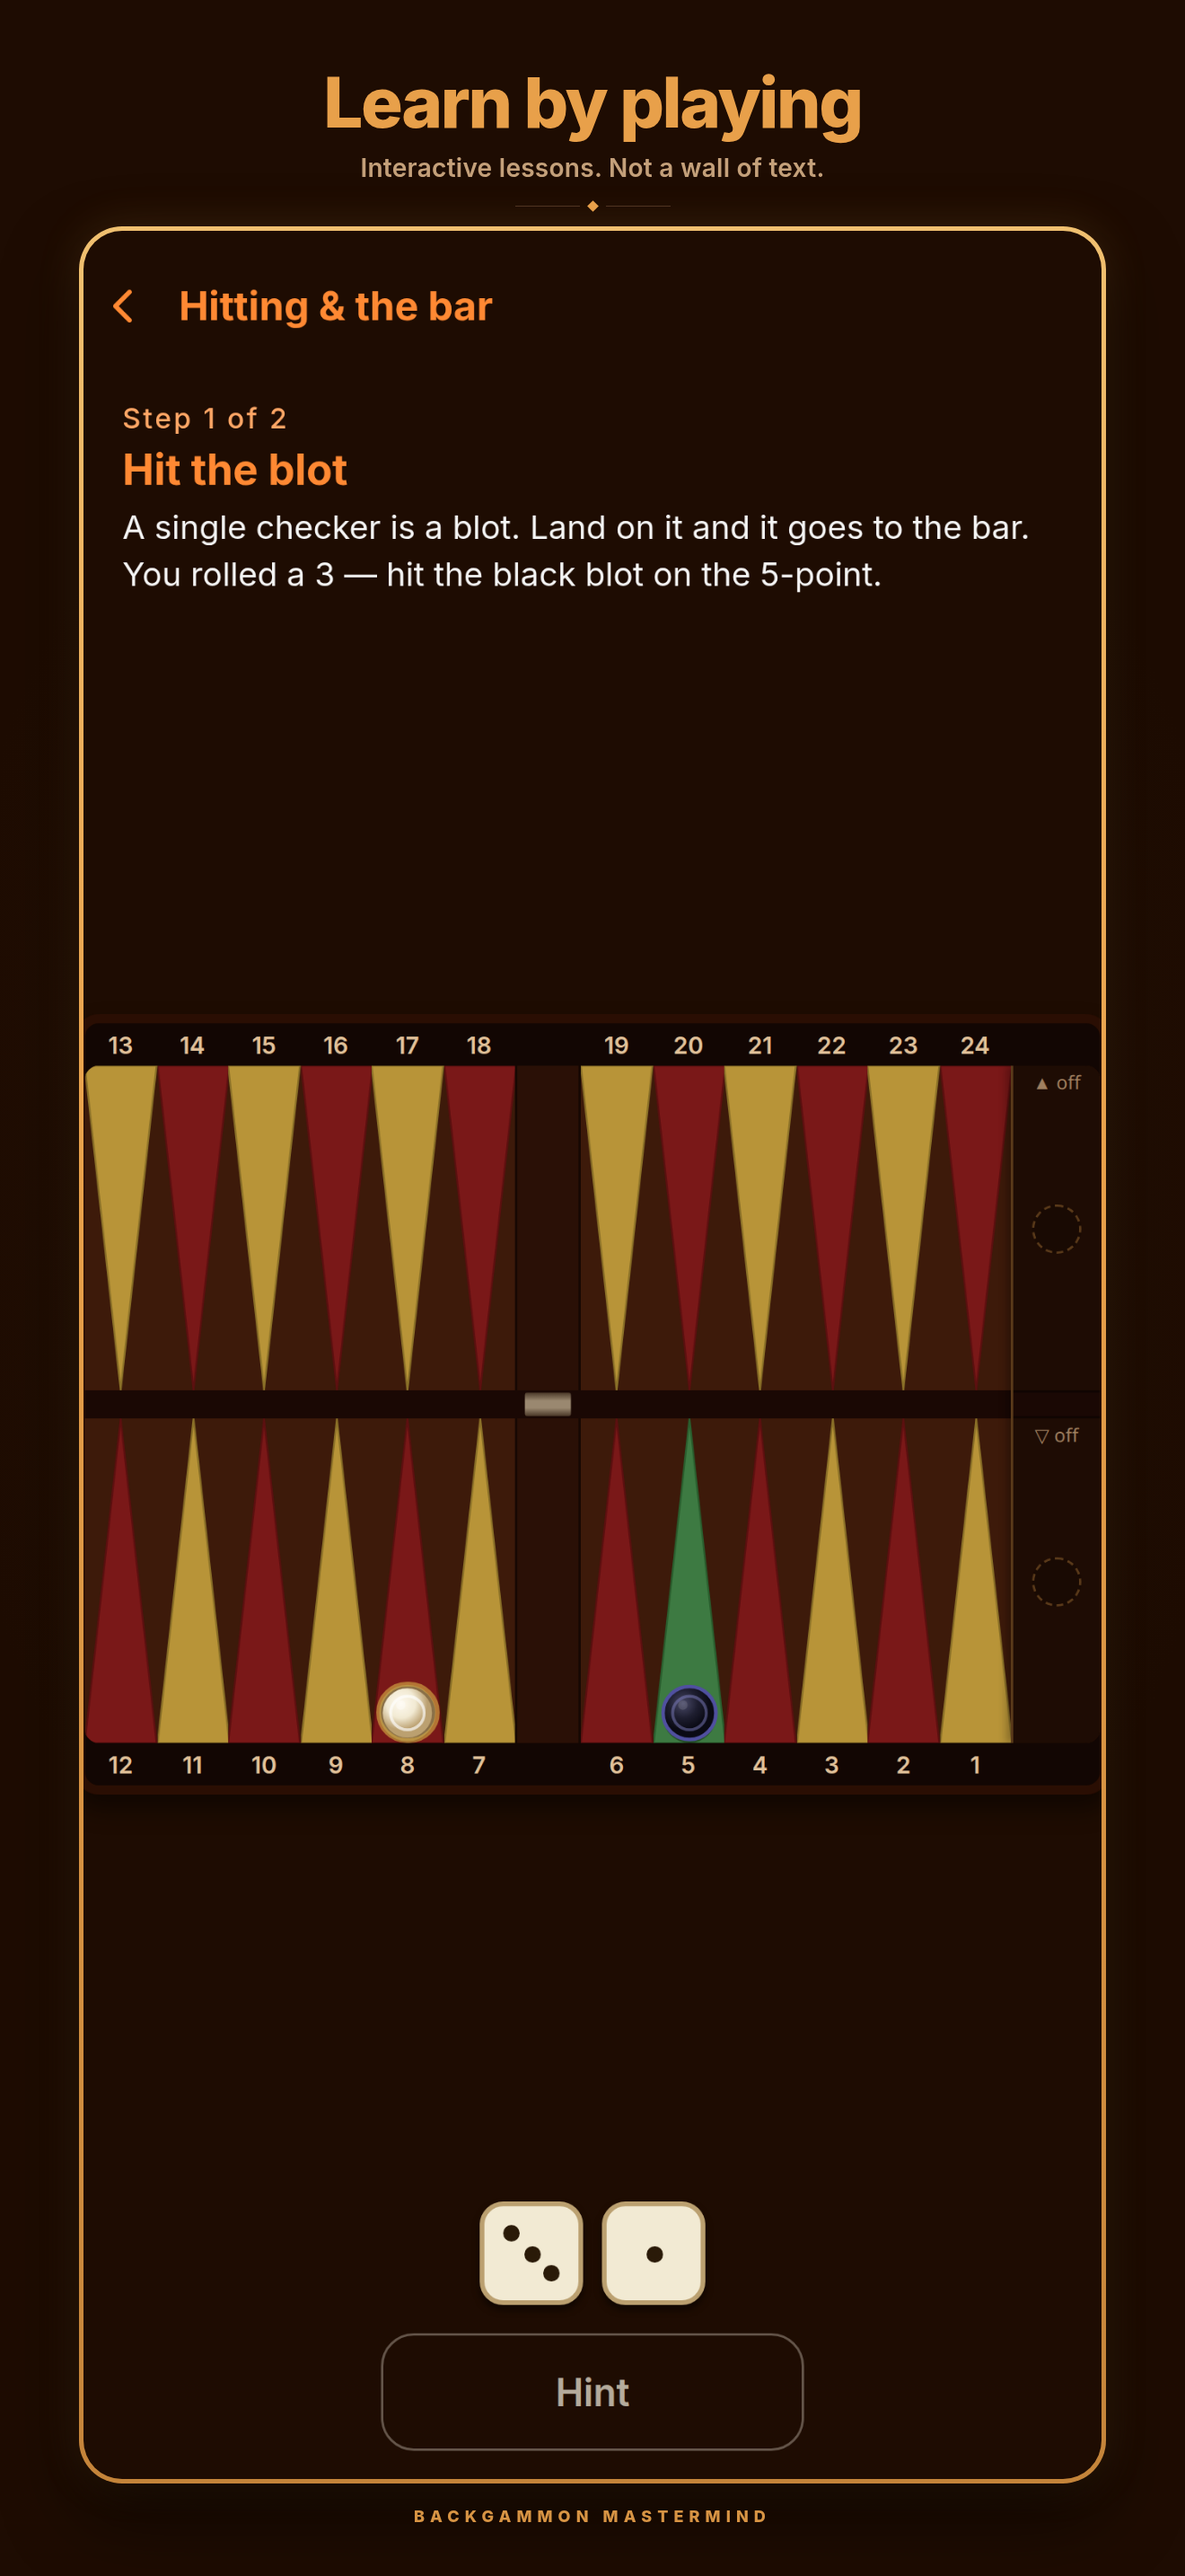
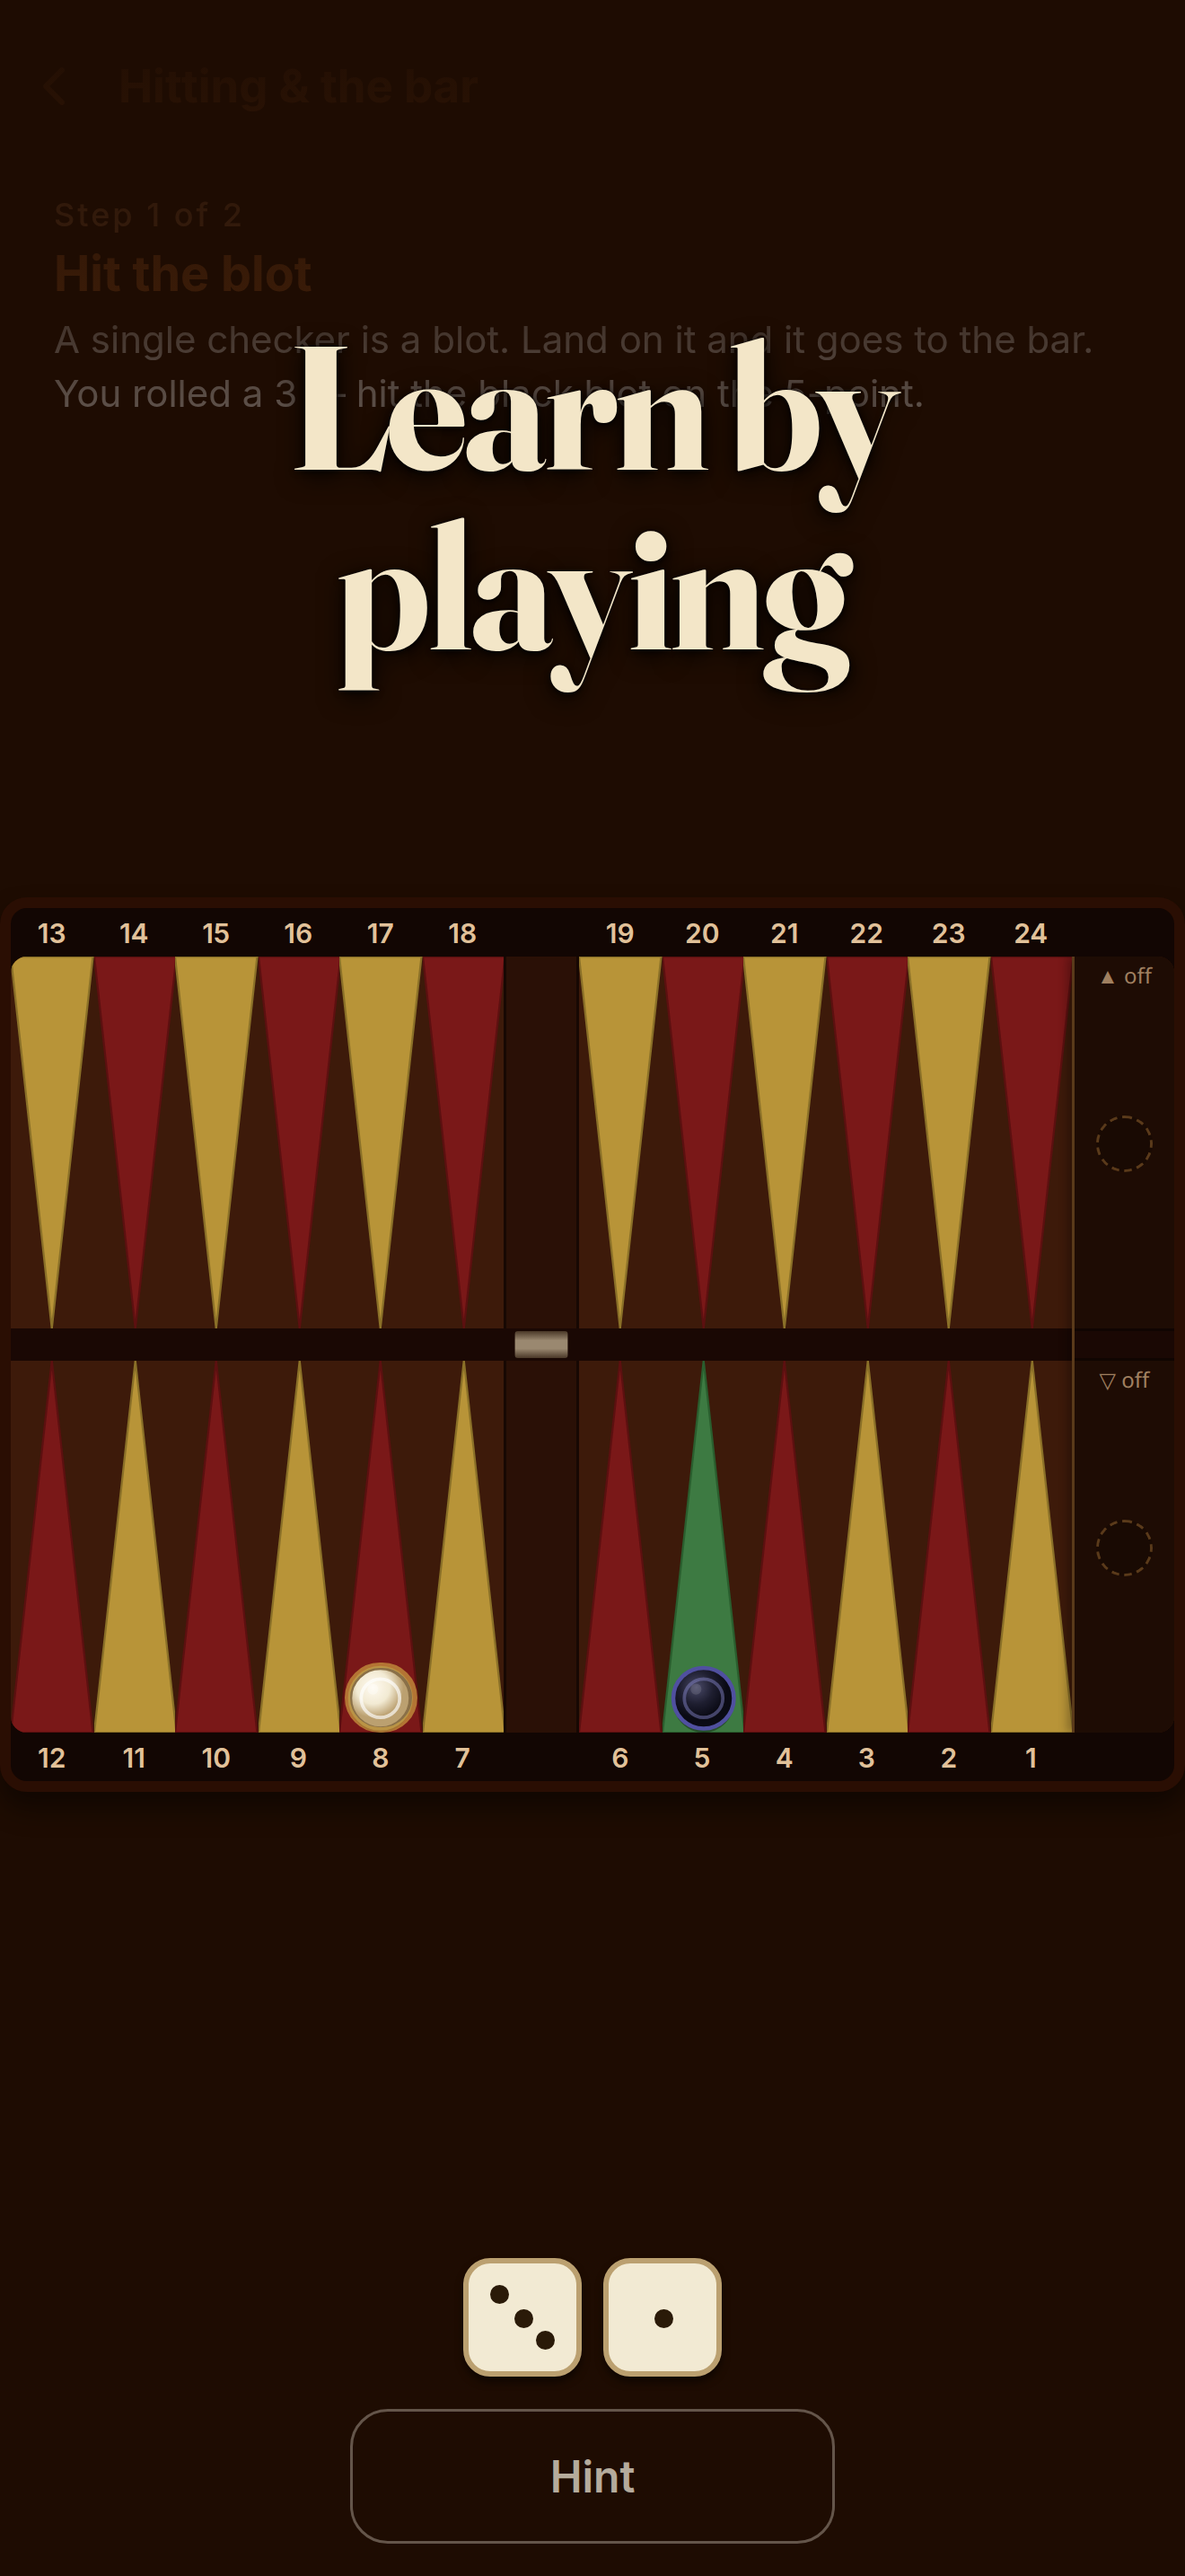
docs: bleed App Store screenshot frames so the board fills the canvas

diff --git a/scripts/compose-store-screenshots.test.ts b/scripts/compose-store-screenshots.test.ts
@@ -23,13 +23,15 @@ type Frame = {
   device: 'iphone' | 'ipad';
   source: string;
   dest: string;
-  headline: string;
+  headline?: string;
   sub?: string;
 };
 
 type Manifest = {
+  layout?: string;
   frames: Frame[];
   devices: Record<string, { width: number; height: number }>;
+  colors: Record<string, string>;
 };
 
 function loadManifest(): Manifest {
@@ -37,7 +39,7 @@ function loadManifest(): Manifest {
 }
 
 function wordCount(headline: string): number {
-  return headline.trim().split(/\s+/).length;
+  return headline.trim().split(/\s+/).filter(Boolean).length;
 }
 
 describe('screenshot-frames manifest', () => {
@@ -52,7 +54,7 @@ describe('screenshot-frames manifest', () => {
     expect(manifest.devices.ipad).toEqual({ width: 2064, height: 2752 });
   });
 
-  it('uses the store carousel order and 2–5 word headlines', () => {
+  it('uses the store carousel order and 2–5 word headlines (home has none)', () => {
     const iphoneDest = manifest.frames
       .filter(f => f.device === 'iphone')
       .map(f => f.dest);
@@ -73,11 +75,37 @@ describe('screenshot-frames manifest', () => {
       'ipad-13-04-learn-hub.png',
       'ipad-13-05-home.png',
     ]);
+    expect(manifest.frames.filter(f => f.device === 'iphone').map(f => f.headline)).toEqual([
+      'Play a real game',
+      'See every legal move',
+      'Learn by playing',
+      'Five short lessons',
+      undefined,
+    ]);
     for (const frame of manifest.frames) {
-      const n = wordCount(frame.headline);
+      const isHome = frame.dest.includes('-home.');
+      if (isHome) {
+        expect(frame.headline).toBeFalsy();
+        expect(JSON.stringify(frame)).not.toMatch(/Master the board/i);
+        continue;
+      }
+      const n = wordCount(frame.headline ?? '');
       expect(n).toBeGreaterThanOrEqual(2);
       expect(n).toBeLessThanOrEqual(5);
     }
+  });
+
+  it('is a bleed overlay, not a letterboxed gold bezel', () => {
+    expect(manifest.layout).toBe('bleed-overlay');
+    expect(manifest.colors.background).toBe('#1E0C02');
+    const src = readFileSync(SCRIPT, 'utf8');
+    expect(src).toMatch(/object-fit:cover/);
+    expect(src).toMatch(/object-position:top center/);
+    expect(src).toMatch(/font-family:Fraunces/);
+    expect(src).not.toMatch(/font-family:Inter/);
+    expect(src).not.toMatch(/class="device"/);
+    expect(src).not.toMatch(/class="wordmark"/);
+    expect(src).not.toMatch(/class="divider"/);
   });
 });
 
@@ -101,14 +129,10 @@ describe('compose-store-screenshots', () => {
         version: '1.0.0',
         rawDir: 'app-store-screenshots/raw',
         outDir: 'app-store-screenshots',
-        wordmark: 'BACKGAMMON MASTERMIND',
+        layout: 'bleed-overlay',
         colors: {
           background: '#1E0C02',
-          backgroundMid: '#2A1408',
-          headline: '#E8A04A',
-          sub: '#C4A07A',
-          rim: '#E8A04A',
-          wordmark: '#E8A04A',
+          headline: '#F3E6C8',
         },
         devices: {
           iphone: { width: 1320, height: 2868 },

diff --git a/docs/marketing/v1.0.0/README.md b/docs/marketing/v1.0.0/README.md
@@ -2,7 +2,7 @@
 
 ## Screenshots
 
-Raw captures: `app-store-screenshots/raw/` from **production** Expo web (`EXPO_PUBLIC_APP_ENV=production`) at Apple’s pixel sizes. No Preview badge, no `0.1.3`, no browser chrome, no Maestro watermark. Headlines live in `screenshot-frames.json`. Composed (upload) PNGs: `app-store-screenshots/*.png`.
+Raw captures: `app-store-screenshots/raw/` from **production** Expo web (`EXPO_PUBLIC_APP_ENV=production`) at Apple’s pixel sizes. No Preview badge, no `0.1.3`, no browser chrome, no Maestro watermark. Headlines live in `screenshot-frames.json`. Compose uses **bleed + overlay** (raw UI fills the canvas; Fraunces headline on a top gradient; no gold bezel). Composed (upload) PNGs: `app-store-screenshots/*.png`.
 
 Recapture (Mac iOS simulators are not required):
 
@@ -38,7 +38,7 @@ iPhone 6.9" is 440×956 CSS at deviceScaleFactor 3 (physical 1320×2868). iPad P
 2. **Legal-move highlights** — headline “See every legal move”. Checker selected, destinations lit.
 3. **Hitting & the bar** — headline “Learn by playing”. One live-board lesson.
 4. **Learn hub** — headline “Five short lessons”. Full lesson list.
-5. **Home** — headline “Master the board”. Logo lockup, Learn / vs Computer / 2 Players (no Resume, no Preview).
+5. **Home** — no overlay headline (the in-app lockup already says “Master the board”). Logo lockup, Learn / vs Computer / 2 Players (no Resume, no Preview).
 
 Raw scene files keep their capture names under `raw/` (01-home … 05-legal-highlights). Compose remaps and reorders via the JSON manifest.
 
